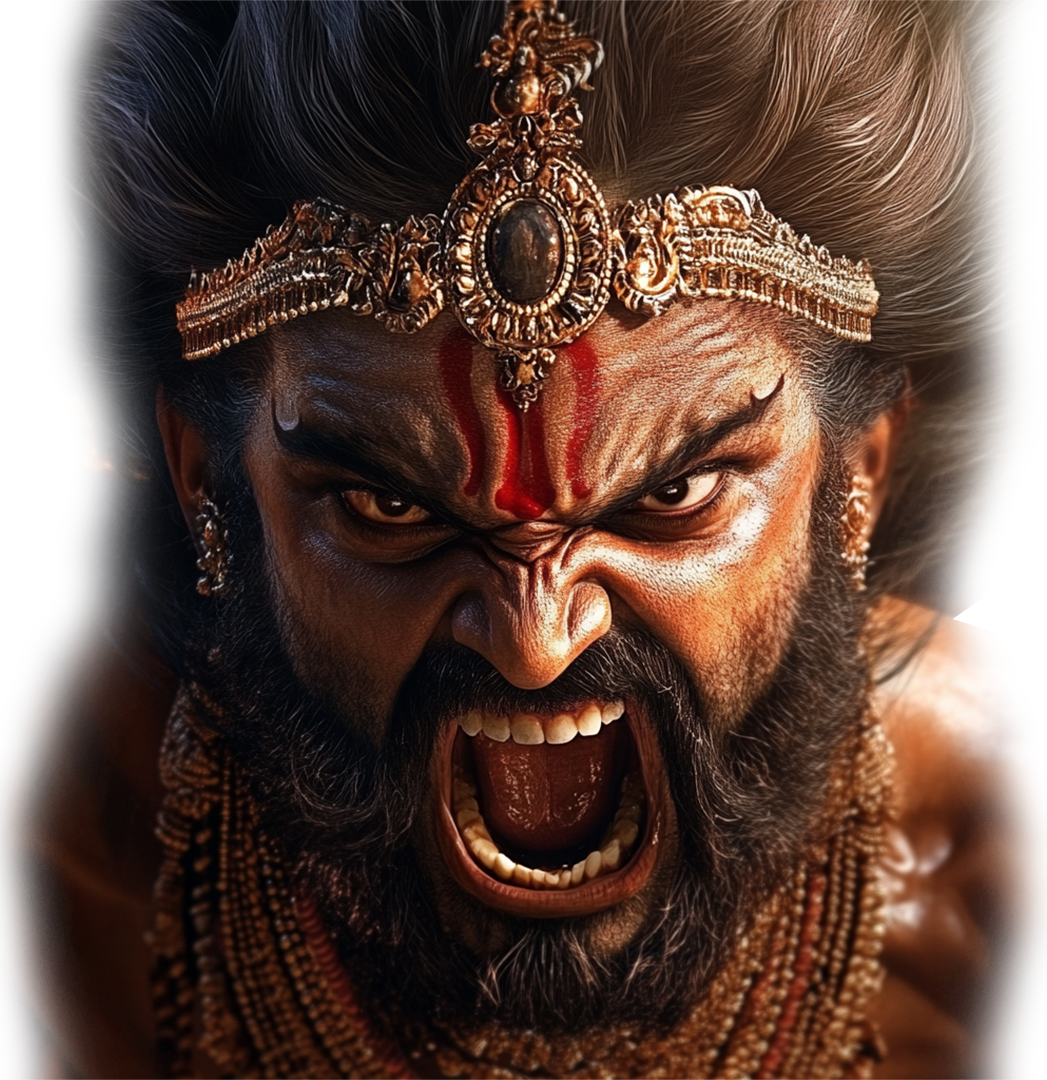
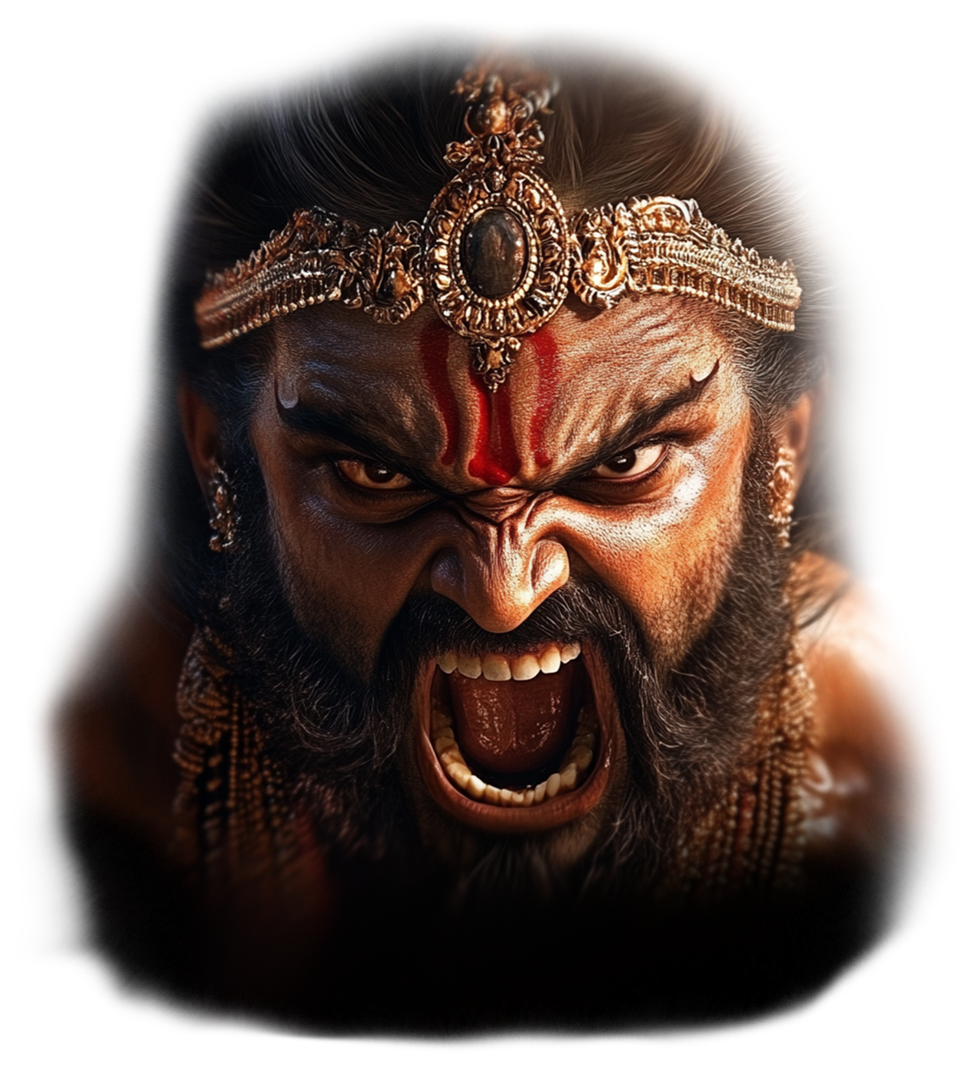
ram

diff --git a/src/User/components/Home/HomeContent.jsx b/src/User/components/Home/HomeContent.jsx
@@ -1,7 +1,8 @@
 import React, { useEffect, useState } from 'react';
 import han from '../../../assets/hanuman.png';
-import rav from '../../../assets/03.png';
-import rav2 from '../../../assets/04.png';
+import rav from '../../../assets/04.png';
+import ram from '../../../assets/05.png';
+
 import bg1 from '../../../assets/bg-1.png';
 import Aos from 'aos';
 import 'aos/dist/aos.css';
@@ -243,7 +244,7 @@ function HomeContent() {
                             <img style={{
                                 width: 'auto',      // Maintain aspect ratio
                                 maxHeight: '100vh', // Ensure it fits within the viewport height
-                            }} src={rav} className='img-fluid' data-aos="fade-up" alt="" />
+                            }} src={rav} className='img-fluid' data-aos="fade-in" alt="" />
                         </div>
                         <div className="col-lg-5 text-light" data-aos="fade-up" data-aos-delay="400" style={{
                             textAlign: 'start',
@@ -320,7 +321,7 @@ function HomeContent() {
                             <img style={{
                                 width: 'auto',      // Maintain aspect ratio
                                 maxHeight: '100vh', // Ensure it fits within the viewport height
-                            }} src={rav2} className='img-fluid' data-aos="fade-up" alt="" />
+                            }} src={ram} className='img-fluid' data-aos="fade-up" alt="" />
                         </div>
                         <div className="col-lg-5 text-light" data-aos="fade-up" data-aos-delay="400" style={{
                             textAlign: 'start',
